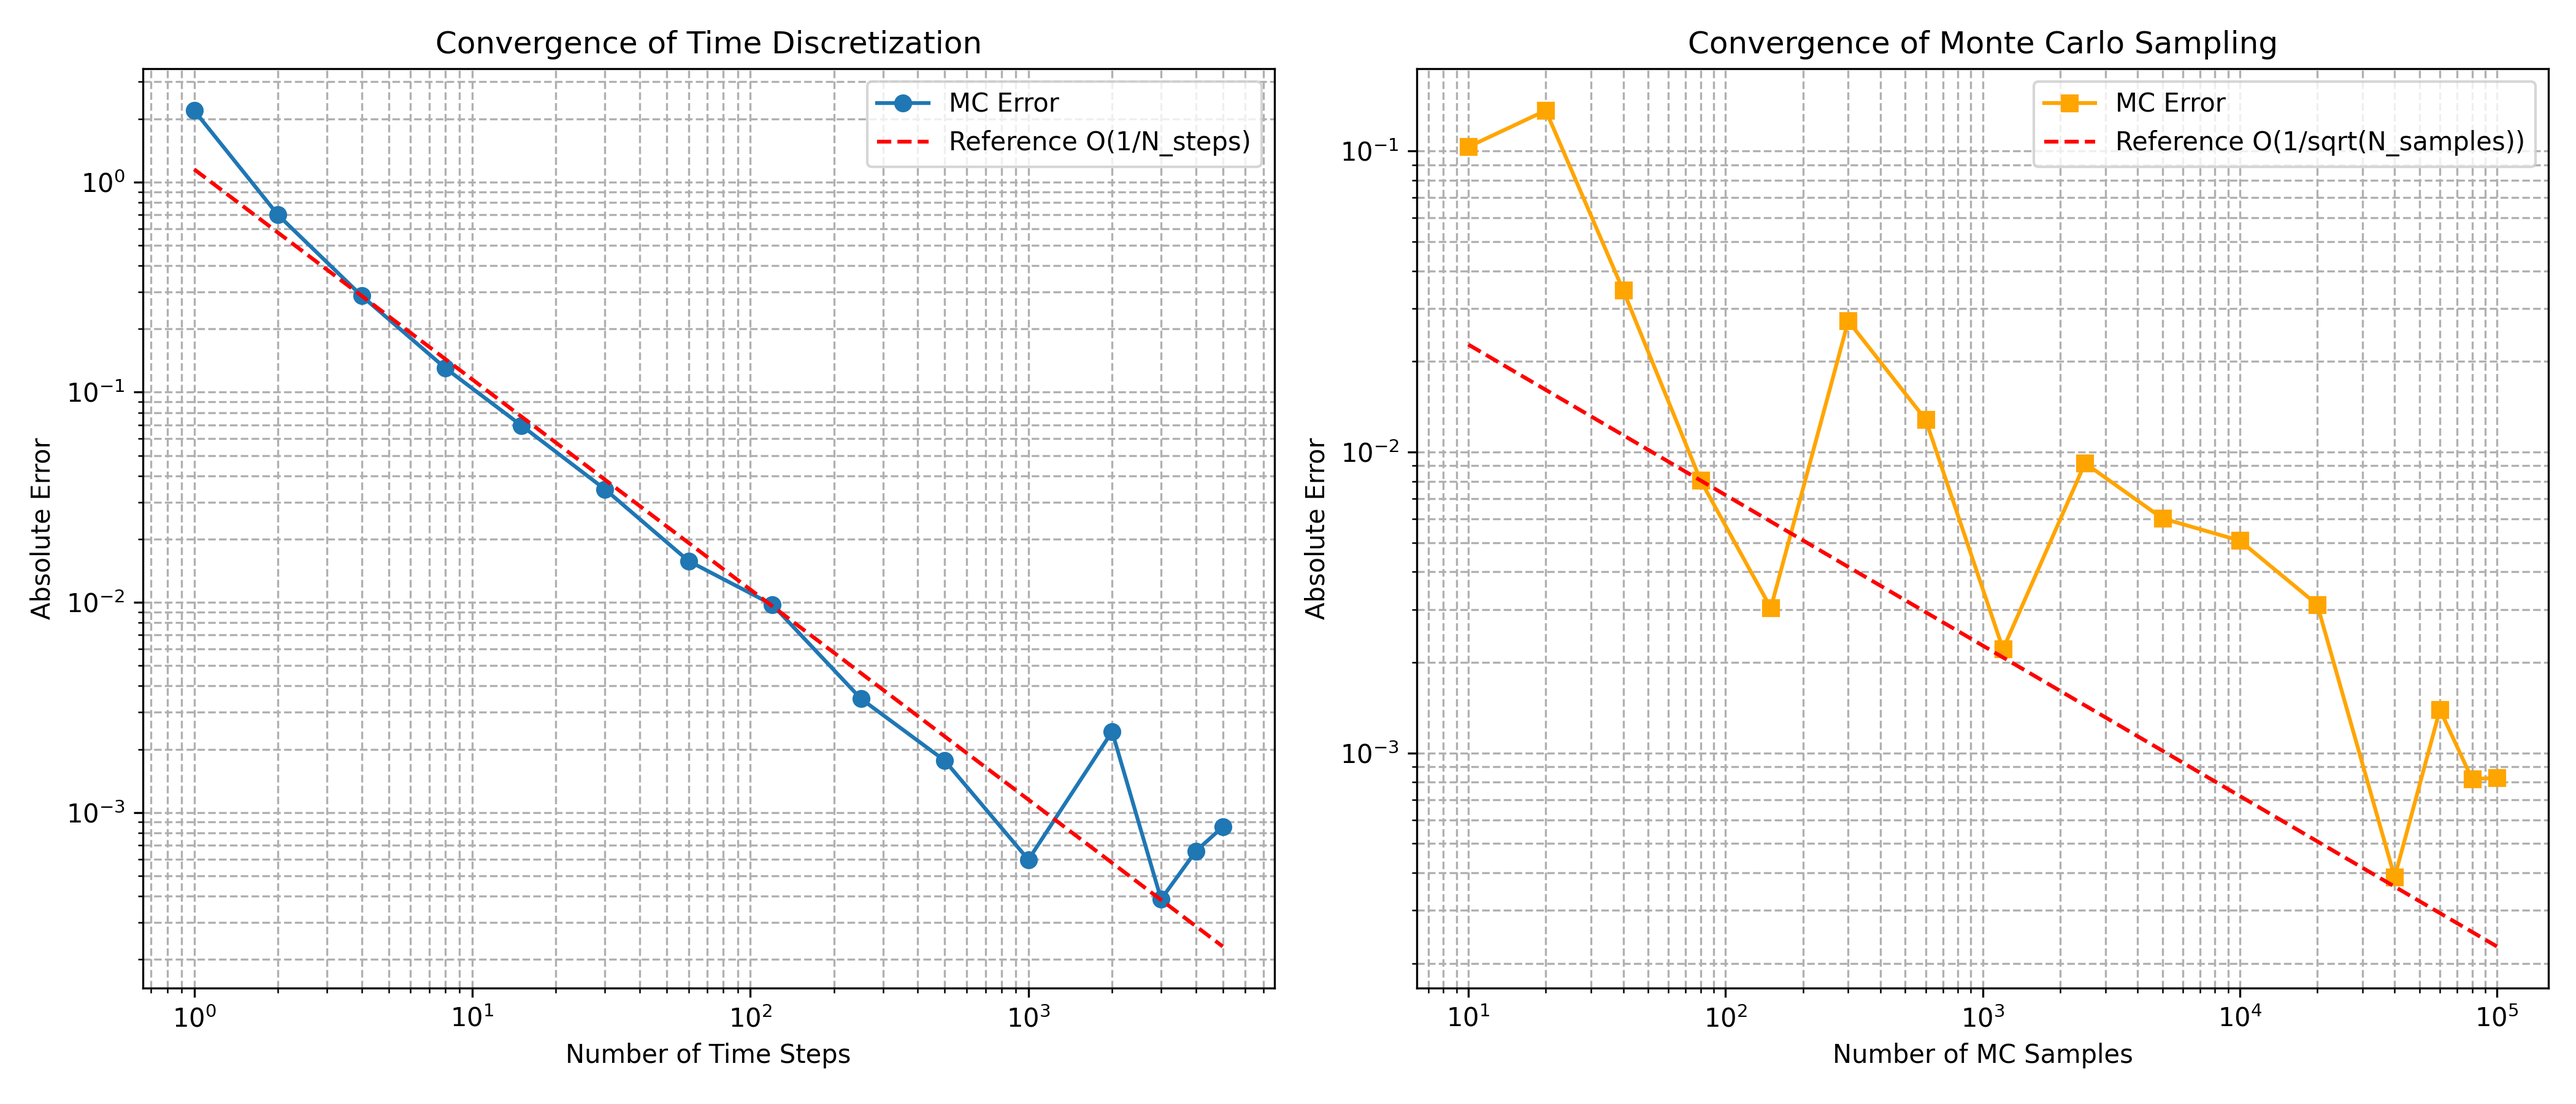
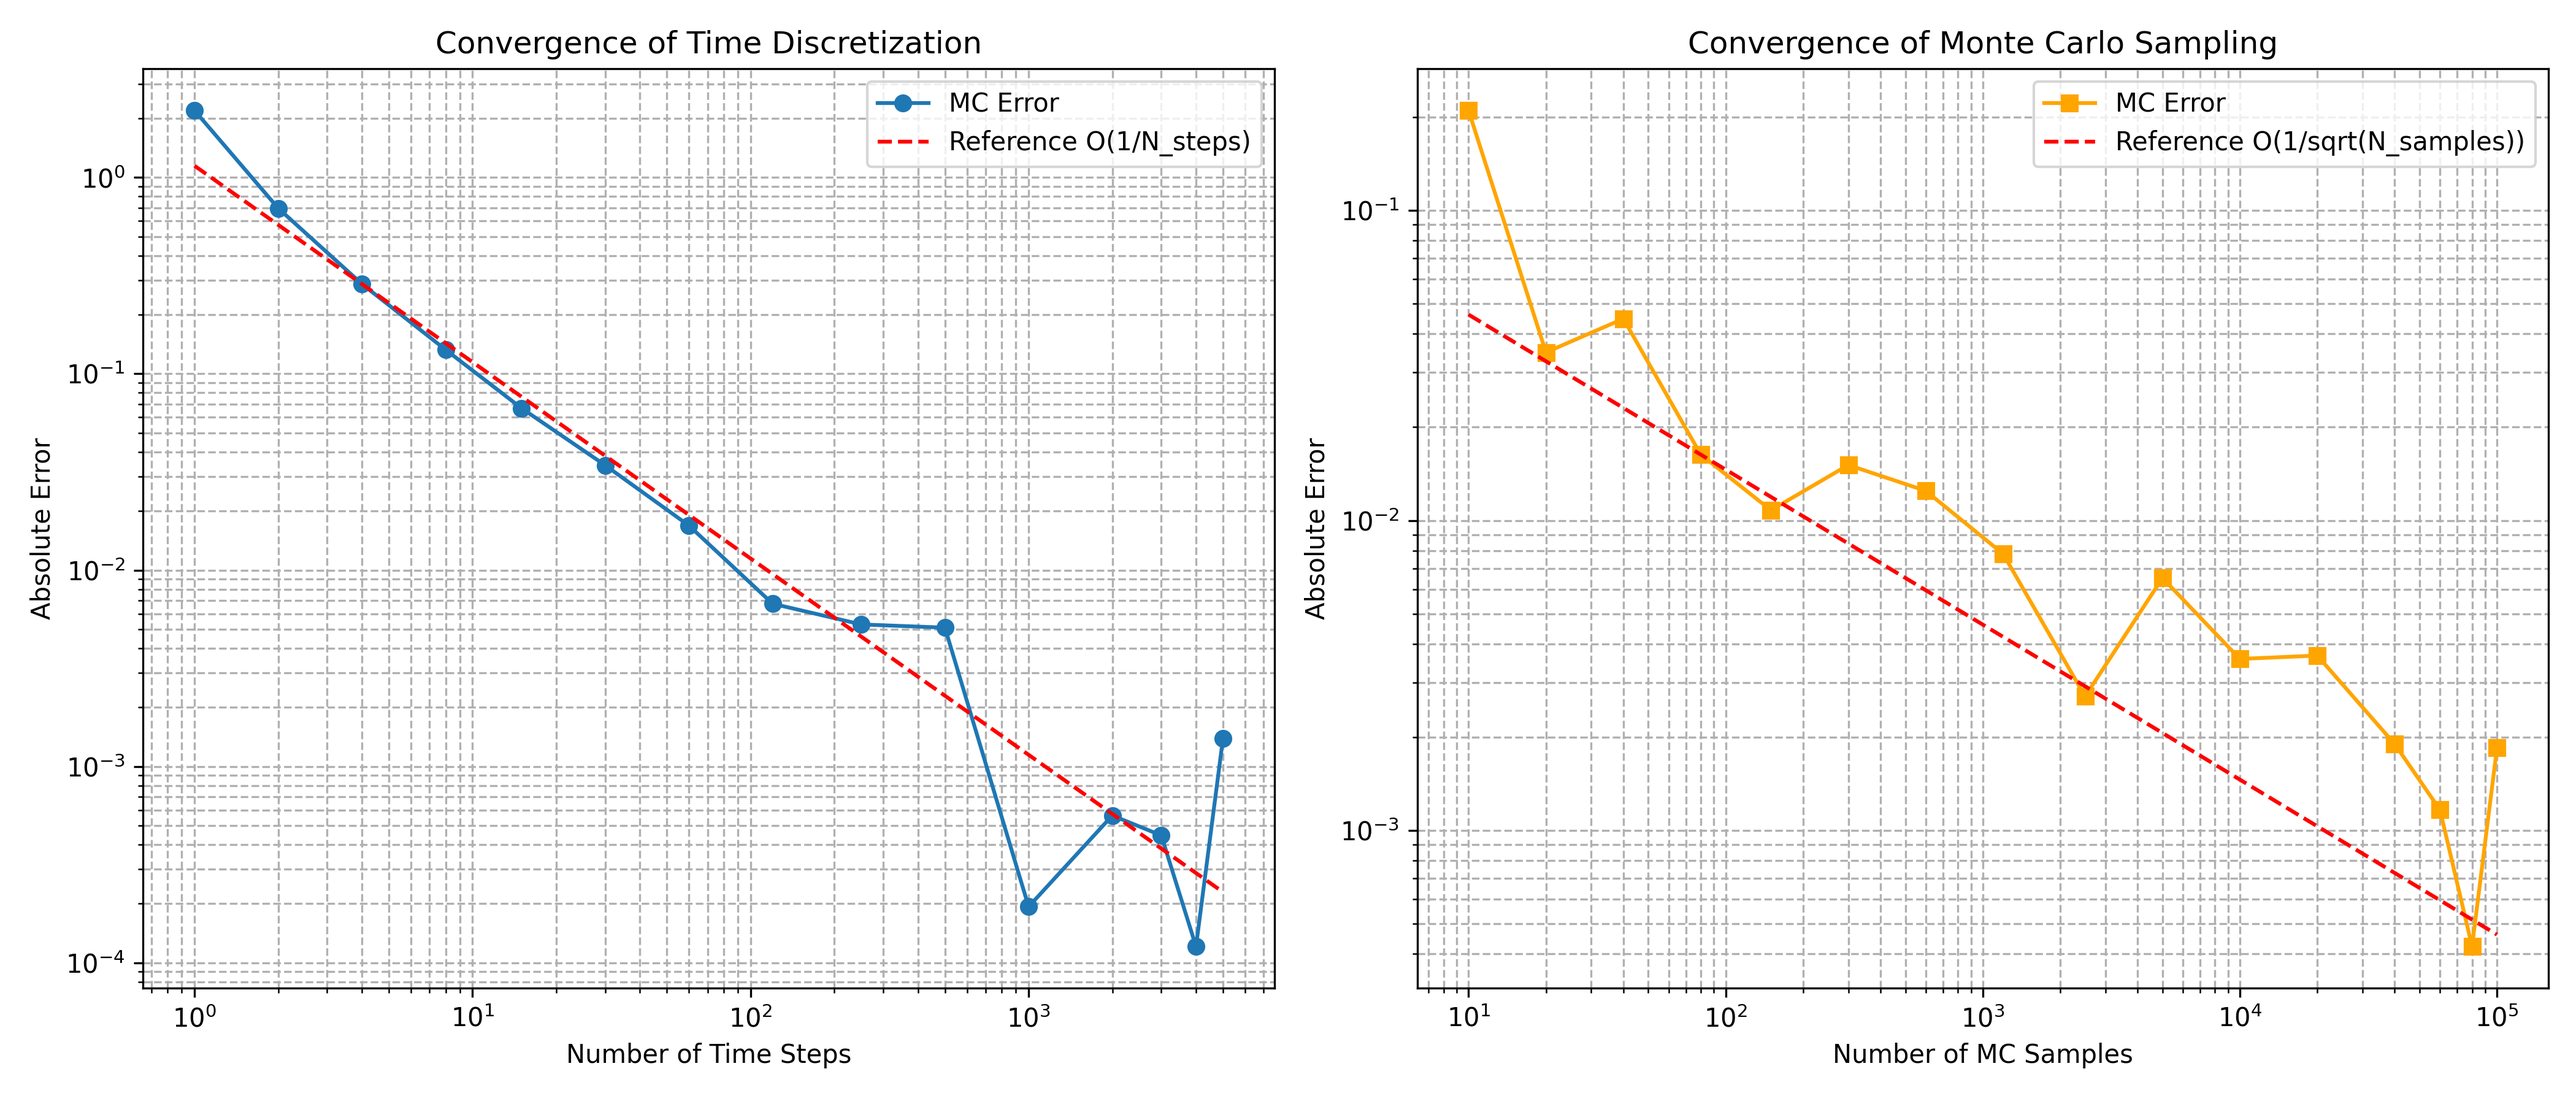
use the standard Riccati form

diff --git a/experiments/ex1_lqr_mc.py b/experiments/ex1_lqr_mc.py
@@ -24,24 +24,33 @@ class LQR_Solver:
 
     def riccati_ode(self, t, S_flat):
         S = S_flat.reshape((2, 2))
-        dS = -2 * self.H @ S + S @ self.M @ self.D_inv @ self.M.T @ S - self.C
+        # 【Key Correction】Use the standard Riccati form to ensure that S is always symmetric and to guard against the non-diagonal matrix test cases.
+        dS = (
+            S @ self.M @ self.D_inv @ self.M.T @ S
+            - self.H.T @ S
+            - S @ self.H
+            - self.C
+        )
         return dS.flatten()
 
     def solve_riccati(self, time_grid):
         time_grid_rev = np.flip(time_grid)
         S_T_flat = self.R.flatten()
         
-        # Optimization 1: Increase Riccati ODE solving precision to prevent MC error 
-        # convergence curve from flattening prematurely.
+        # 提高精度，确保后续 MC 收敛曲线在末端不会因为 ODE 精度不够而变平
         sol = solve_ivp(
             fun=self.riccati_ode,
             t_span=(self.T, 0.0),
             y0=S_T_flat,
             t_eval=time_grid_rev,
             method='RK45',
-            rtol=1e-8,  # Increased relative tolerance
-            atol=1e-8   # Increased absolute tolerance
+            rtol=1e-8,  
+            atol=1e-8   
         )
+        
+        if not sol.success:
+            raise RuntimeError(f"Riccati ODE solver failed: {sol.message}")
+
         t_forward = np.flip(sol.t)
         S_forward = np.flip(sol.y, axis=1)
         self.S_interp = interp1d(t_forward, S_forward, kind='cubic', axis=1, fill_value="extrapolate")
@@ -65,14 +74,12 @@ class LQR_Solver:
 
     def value_function(self, t_batch, x_batch):
         S_t, integral_t = self._get_S_and_integral(t_batch)
+        # 使用现代 PyTorch 的 .mT 语法
         x_S_x = torch.bmm(torch.bmm(x_batch, S_t), x_batch.mT)
         v_val = x_S_x.squeeze(2) + integral_t
         return v_val
         
     def markov_control(self, t_batch, x_batch):
-        """
-        Required for Exercise 1.1 / 2.2: Returns optimal Markov control a(t,x)
-        """
         S_t, _ = self._get_S_and_integral(t_batch)
         K_np = -self.D_inv @ self.M.T
         K = torch.tensor(K_np, dtype=torch.float32, device=t_batch.device).unsqueeze(0)
@@ -89,7 +96,7 @@ def run_mc_lqr(lqr_solver, x0, T, N_steps, N_samples):
     dt = T / N_steps
     sqrt_dt = np.sqrt(dt)
 
-    # Optimization 2: Move .expand() out of the loop to avoid reallocating view objects in every iteration
+    # 预分配 Tensor 提升循环速度
     H_batch = torch.tensor(lqr_solver.H, dtype=torch.float32, device=device).expand(N_samples, 2, 2)
     M_batch = torch.tensor(lqr_solver.M, dtype=torch.float32, device=device).expand(N_samples, 2, 2)
     sigma_batch = torch.tensor(lqr_solver.sigma, dtype=torch.float32, device=device).expand(N_samples, 2, 2)
@@ -97,42 +104,34 @@ def run_mc_lqr(lqr_solver, x0, T, N_steps, N_samples):
     D_batch = torch.tensor(lqr_solver.D, dtype=torch.float32, device=device).expand(N_samples, 2, 2)
     R_batch = torch.tensor(lqr_solver.R, dtype=torch.float32, device=device).expand(N_samples, 2, 2)
 
-    # Optimization 3: Precompute S(t) and control gain K_S for the entire time grid at once, eliminating CPU-GPU communication inside the loop
     time_grid = np.linspace(0, T, N_steps, endpoint=False)
-    S_flat_np = lqr_solver.S_interp(time_grid) # Call SciPy only once
+    S_flat_np = lqr_solver.S_interp(time_grid) 
     S_seq = torch.tensor(S_flat_np.T, dtype=torch.float32, device=device).reshape(N_steps, 2, 2)
     
     K_np = -lqr_solver.D_inv @ lqr_solver.M.T
     K_tensor = torch.tensor(K_np, dtype=torch.float32, device=device)
-    
-    # Control law a = K @ S(t) @ X, precompute KS(t) = K @ S(t)
     KS_seq = torch.matmul(K_tensor, S_seq)
 
     X = torch.tensor(x0, dtype=torch.float32, device=device).repeat(N_samples, 1).unsqueeze(-1)
     total_cost = torch.zeros(N_samples, 1, 1, device=device)
     
     for i in range(N_steps):
-        # Extract the control gain for the current step directly from the precomputed GPU tensor by index
         KS_i = KS_seq[i].expand(N_samples, 2, 2)
-        
-        # Calculate control vector a
         a_col = torch.bmm(KS_i, X)
         
-        X_T = X.transpose(1, 2)
-        a_T = a_col.transpose(1, 2)
+        X_T = X.mT
+        a_T = a_col.mT
         
-        # Running cost
         cost_X = torch.bmm(torch.bmm(X_T, C_batch), X)
         cost_a = torch.bmm(torch.bmm(a_T, D_batch), a_col)
         total_cost += (cost_X + cost_a) * dt
         
-        # Euler-Maruyama step (Explicit)
         dW = torch.randn(N_samples, 2, 1, device=device) * sqrt_dt
         drift = torch.bmm(H_batch, X) + torch.bmm(M_batch, a_col)
         diffusion = torch.bmm(sigma_batch, dW)
         X = X + drift * dt + diffusion
         
-    term_cost = torch.bmm(torch.bmm(X.transpose(1, 2), R_batch), X)
+    term_cost = torch.bmm(torch.bmm(X.mT, R_batch), X)
     total_cost += term_cost
     return total_cost.mean().item()
 
@@ -146,7 +145,7 @@ def plot_convergence(lqr_solver, x0, T):
     print(f"Theoretical true value v(0, x_0): {v_true:.6f}")
 
     N_samples_fixed = 10**5
-    # ADDED MORE DATA POINTS for higher precision rendering
+    # 保留更密集的数据点以获得漂亮的收敛图
     N_steps_list = [1, 2, 4, 8, 15, 30, 60, 120, 250, 500, 1000, 2000, 3000, 4000, 5000] 
     errors_time = []
     
@@ -158,7 +157,6 @@ def plot_convergence(lqr_solver, x0, T):
         print(f"N_steps: {n_step:4d} | MC Value: {v_mc:.4f} | Absolute Error: {err:.6f}")
 
     N_steps_fixed = 5000
-    # ADDED MORE DATA POINTS for higher precision rendering
     N_samples_list = [10, 20, 40, 80, 150, 300, 600, 1200, 2500, 5000, 10000, 20000, 40000, 60000, 80000, 100000]
     errors_samples = []
 
@@ -170,9 +168,9 @@ def plot_convergence(lqr_solver, x0, T):
         print(f"N_samples: {n_samp:6d} | MC Value: {v_mc:.4f} | Absolute Error: {err:.6f}")
 
     plt.figure(figsize=(14, 6))
+    
     plt.subplot(1, 2, 1)
     plt.loglog(N_steps_list, errors_time, 'o-', label='MC Error')
-    # Use index 2 (N_steps=4) to anchor the reference line
     ref_line_1 = [errors_time[2] * (N_steps_list[2] / n) for n in N_steps_list]
     plt.loglog(N_steps_list, ref_line_1, 'r--', label='Reference O(1/N_steps)')
     plt.title('Convergence of Time Discretization')
@@ -183,7 +181,6 @@ def plot_convergence(lqr_solver, x0, T):
 
     plt.subplot(1, 2, 2)
     plt.loglog(N_samples_list, errors_samples, 's-', color='orange', label='MC Error')
-    # Use index 3 (N_samples=80) to anchor the reference line
     ref_line_2 = [errors_samples[3] * np.sqrt(N_samples_list[3] / n) for n in N_samples_list]
     plt.loglog(N_samples_list, ref_line_2, 'r--', label='Reference O(1/sqrt(N_samples))')
     plt.title('Convergence of Monte Carlo Sampling')
@@ -194,17 +191,11 @@ def plot_convergence(lqr_solver, x0, T):
 
     plt.tight_layout()
     
-    # ==========================================
-    # MODIFIED: Ensure 'plots' directory exists and save the image there
-    # ==========================================
     os.makedirs('plots', exist_ok=True)
     save_path = os.path.join('plots', 'convergence_plot.png')
     plt.savefig(save_path, dpi=300)
     print(f"\n✅ The plot has been successfully saved as '{save_path}'.")
 
-# ==========================================
-# 4. Main Program Entry
-# ==========================================
 if __name__ == "__main__":
     H_mat = np.array([[0.1, 0.0], [0.0, 0.1]])
     M_mat = np.array([[1.0, 0.0], [0.0, 1.0]])
